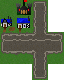
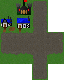
Updated Tiles and Characther Movement and Graphics

diff --git a/src/game/movement.js b/src/game/movement.js
@@ -1,40 +1,36 @@
-mainConfig.prototype.checkXMovement = function() {
-    if (this.shouldMoveLeft()) {
-        this.player.body.acceleration.x = -this.ACCELERATION;
-        this.player.scale.x = 1;
-    } else if (this.shouldMoveRight()) {
-        this.player.body.acceleration.x = this.ACCELERATION;
-        this.player.scale.x = -1;
-    } else {
-        this.player.body.acceleration.x = 0;
-        this.player.body.velocity.x = 0;
-    }
-};
-
-mainConfig.prototype.checkYMomvment = function() {
-    if (this.shouldMoveUp()) {
-        this.player.body.acceleration.y = -this.ACCELERATION;
-    } else if (this.shouldMoveDown()) {
-        this.player.body.acceleration.y = this.ACCELERATION;
-    } else {
-        this.player.body.acceleration.y = 0;
-        this.player.body.velocity.y = 0;
-    }   
-};
-
 mainConfig.prototype.checkSpaceBar = function() {
-    if (this.shouldSpaceBar()) {
+    if (this.isSpaceBarActive()) {
         if (this.hasText())
         {
             this.clearText();
         }
         else {
-            this.bubbleText("Booki is Primak in the BetShoeva");
+            // this.bubbleText("Booki is Primak in the BetShoeva");
         }
     }
 };
 
-mainConfig.prototype.shouldSpaceBar = function() {
+mainConfig.prototype.checkXMovement = function() {
+    if (this.shouldMoveLeft()) {
+        this.moveLeft();
+    } else if (this.shouldMoveRight()) {
+        this.moveRight();
+    } else {
+        this.stopXMovement();
+    }
+};
+
+mainConfig.prototype.checkYMomvment = function() {
+    if (this.shouldMoveUp()) {
+        this.moveUp();
+    } else if (this.shouldMoveDown()) {
+        this.moveDown();
+    } else {
+        this.stopYMovement();
+    }   
+};
+
+mainConfig.prototype.isSpaceBarActive = function() {
     var isActive = false;
 
     isActive = this.input.keyboard.isDown(Phaser.Keyboard.SPACEBAR);
@@ -42,42 +38,72 @@ mainConfig.prototype.shouldSpaceBar = function() {
     return isActive;
 };
 
-mainConfig.prototype.shouldMoveDown = function() {
-    var isActive = false;
+mainConfig.prototype.moveDown = function() {
+    this.player.body.acceleration.y = this.ACCELERATION;
+};
 
-    isActive = this.input.keyboard.isDown(Phaser.Keyboard.DOWN);
-    isActive |= (game.input.activePointer.isDown &&
+mainConfig.prototype.moveLeft = function() {
+    this.player.body.acceleration.x = -this.ACCELERATION;
+    this.player.scale.x = 1;
+    this.player.animations.play("left");
+};
+
+mainConfig.prototype.moveRight = function() {
+    this.player.body.acceleration.x = this.ACCELERATION;
+    this.player.animations.play("right");
+};
+
+mainConfig.prototype.moveUp = function() {
+    this.player.body.acceleration.y = -this.ACCELERATION;
+};
+
+mainConfig.prototype.shouldMoveDown = function() {
+    var shouldMove = false;
+
+    shouldMove = this.input.keyboard.isDown(Phaser.Keyboard.DOWN);
+    shouldMove |= (game.input.activePointer.isDown &&
         game.input.activePointer.y < game.height*4);
 
-    return isActive;
+    return shouldMove;
 };
 
 mainConfig.prototype.shouldMoveLeft = function() {
-    var isActive = false;
+    var shouldMove = false;
 
-    isActive = this.input.keyboard.isDown(Phaser.Keyboard.LEFT);
-    isActive |= (game.input.activePointer.isDown &&
+    shouldMove = this.input.keyboard.isDown(Phaser.Keyboard.LEFT);
+    shouldMove |= (game.input.activePointer.isDown &&
         game.input.activePointer.x < game.width/4);
 
-    return isActive;
-};
-
-mainConfig.prototype.shouldMoveUp = function() {
-    var isActive = false;
-
-    isActive = this.input.keyboard.isDown(Phaser.Keyboard.UP);
-    isActive |= (game.input.activePointer.isDown &&
-        game.input.activePointer.y < game.height/4);
-
-    return isActive;
+    return shouldMove;
 };
 
 mainConfig.prototype.shouldMoveRight = function() {
-    var isActive = false;
+    var shouldMove = false;
 
-    isActive = this.input.keyboard.isDown(Phaser.Keyboard.RIGHT);
-    isActive |= (game.input.activePointer.isDown &&
+    shouldMove = this.input.keyboard.isDown(Phaser.Keyboard.RIGHT);
+    shouldMove |= (game.input.activePointer.isDown &&
         game.input.activePointer.x > game.width/2 + game.width/4);
 
-    return isActive;
+    return shouldMove;
+};
+
+mainConfig.prototype.shouldMoveUp = function() {
+    var shouldMove = false;
+
+    shouldMove = this.input.keyboard.isDown(Phaser.Keyboard.UP);
+    shouldMove |= (game.input.activePointer.isDown &&
+        game.input.activePointer.y < game.height/4);
+
+    return shouldMove;
+};
+
+mainConfig.prototype.stopXMovement = function() {
+    this.player.body.acceleration.x = 0;
+    this.player.body.velocity.x = 0;
+    this.player.animations.stop();
+};
+
+mainConfig.prototype.stopYMovement = function() {
+    this.player.body.acceleration.y = 0;
+    this.player.body.velocity.y = 0;
 };

diff --git a/src/game/main.js b/src/game/main.js
@@ -1,7 +1,7 @@
 var mainConfig = function(game) {
 };
 
-var game = new Phaser.Game(400, 490, Phaser.AUTO, 'gameDiv');
+var game = new Phaser.Game(400, 240, Phaser.AUTO, 'gameDiv');
 var pixel = { scale: 4, canvas: null, context: null, width: 0, height: 0 }
 
 var layer;
@@ -35,10 +35,11 @@ mainConfig.prototype.preload = function() {
 
     game.stage.backgroundColor = '#71c5cf';
 
-    game.load.tilemap('map', 'assets/gfx/tiles/TEST1.json', null, Phaser.Tilemap.TILED_JSON);
+    game.load.tilemap('map', 'assets/gfx/tiles/Overworld.json', null, Phaser.Tilemap.TILED_JSON);
     game.load.image('tileset', 'assets/gfx/tiles/VillageOverworldTiles.png');
+    game.load.image('tileset', 'assets/gfx/tiles/VillageOverworldTilesEx.png');
     
-    game.load.spritesheet("player", "/assets/gfx/sprites/Charcter_0001s_0001_Stand.png", 16, 16);
+    game.load.spritesheet("player", "/assets/gfx/sprites/All.png", 16, 16);
 };
 
 // This function is called after the preload function     
@@ -49,24 +50,23 @@ mainConfig.prototype.create = function() {
     this.MAX_SPEED = 3500; // pixels/second
     this.ACCELERATION = 3500; // pixels/second/second
 
-    
     // Set the physics system
     game.physics.startSystem(Phaser.Physics.ARCADE);
 
     this.map = game.add.tilemap('map');
+    this.map.addTilesetImage('VillageOverworldTilesEx', 'tileset');
     this.map.addTilesetImage('VillageOverworldTiles', 'tileset');
 
     this.map.setCollisionBetween(5,6);
     this.map.setCollision(2);
 
-    //'Village 1' is the name of a layer inside of Tiled Map Editor
-    this.layer = this.map.createLayer('Tile Layer 1');
+    this.layer = this.map.createLayer('Overworld');
     this.layer.resizeWorld();
-    // this.layer.wrap = true;
 
     // Create a player sprite
     this.player = game.add.sprite(game.width/2, game.height/2, 'player');
     this.player.anchor.setTo(.5,.5);
+    
     // Add physics to the player
     game.physics.arcade.enable(this.player);
 
@@ -75,6 +75,9 @@ mainConfig.prototype.create = function() {
 
     // Set player maximum movement speed
     this.player.body.maxVelocity.setTo(this.MAX_SPEED, this.MAX_SPEED); // x, 
+
+    this.player.animations.add('left', [2, 3], 10, true);
+    this.player.animations.add('right', [4, 5], 10, true);
 
     // Capture certain keys to prevent their default actions in the browser.
     // This is only necessary because this is an HTML5 game. Games on other

diff --git a/src/game/text.js b/src/game/text.js
@@ -1,13 +1,16 @@
+var width = 0;
+var height = 170;
+
 mainConfig.prototype.bubbleText = function(text) {
   if (!this.hasText())
   {
     var spr_bg = game.add.graphics(0, 0);
     spr_bg.beginFill('#bababa', 0.8);
-    spr_bg.drawRect(0, 400, this.game.width, this.game.height);
+    spr_bg.drawRect(width, height, this.game.width, this.game.height);
     spr_bg.alpha = 0.6;
     spr_bg.endFill();
     this.textholder.spr_bg = spr_bg
-    this.textholder.text = game.add.text(0, 400, text, { font: "40px Arial", fill: "#ffffff", align: "center" });
+    this.textholder.text = game.add.text(width, height, text, { font: "40px Arial", fill: "#ffffff", align: "center" });
   }
 };
 
